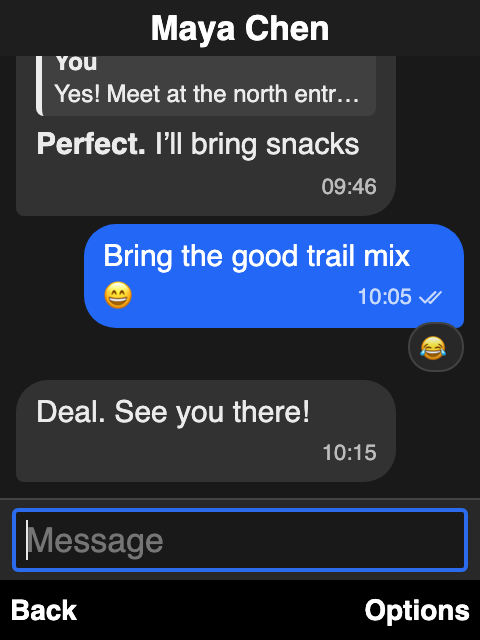
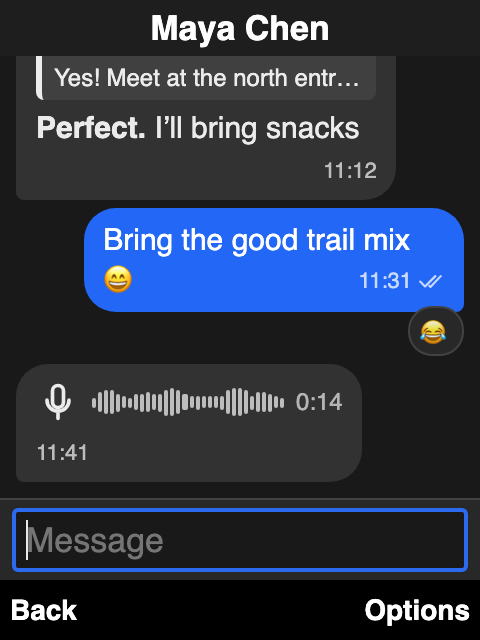
Refresh the README screenshots

Changed region(s): [[0.0312, 0.0625, 0.9688, 0.5938], [0.0312, 0.5625, 0.75, 0.7188], [0.6562, 0.5938, 0.8438, 0.75]]

diff --git a/README.md b/README.md
@@ -13,13 +13,13 @@
 <table>
   <tr>
     <td align="center"><img src="docs/images/welcome.png" alt="Welcome screen with the Beacon icon and a Start softkey" width="200"><br><sub><b>Link in a minute</b></sub></td>
-    <td align="center"><img src="docs/images/chats.png" alt="Chat list with a pinned chat, unread counts, a muted chat, and a typing indicator" width="200"><br><sub><b>All your chats</b></sub></td>
-    <td align="center"><img src="docs/images/chat-dark.png" alt="A conversation in dark mode with a reply, bold text, reactions, and read ticks" width="200"><br><sub><b>Replies, reactions, formatting</b></sub></td>
+    <td align="center"><img src="docs/images/chats.png" alt="Chat list in the All chats folder with a pinned chat, a group, unread counts, a typing indicator, and a muted chat" width="200"><br><sub><b>Chats, groups, and folders</b></sub></td>
+    <td align="center"><img src="docs/images/chat-dark.png" alt="A conversation in dark mode with a reply, bold text, a reaction, read ticks, and a voice message" width="200"><br><sub><b>Replies, reactions, voice messages</b></sub></td>
   </tr>
   <tr>
-    <td align="center"><img src="docs/images/message-options.png" alt="Message options menu with React, Reply, Copy text, and Pin message" width="200"><br><sub><b>Everything one key away</b></sub></td>
-    <td align="center"><img src="docs/images/chat-settings.png" alt="Chat settings with the contact's avatar, nickname, and disappearing messages" width="200"><br><sub><b>Per-chat settings</b></sub></td>
-    <td align="center"><img src="docs/images/settings.png" alt="Settings with the profile, linked device, chats, and privacy" width="200"><br><sub><b>Light and dark themes</b></sub></td>
+    <td align="center"><img src="docs/images/group-poll.png" alt="A group chat with a poll showing vote counts and the option you picked" width="200"><br><sub><b>Polls in groups</b></sub></td>
+    <td align="center"><img src="docs/images/call.png" alt="A voice call in progress with Speaker, Mute, and End softkeys" width="200"><br><sub><b>One-to-one voice calls</b></sub></td>
+    <td align="center"><img src="docs/images/about.png" alt="About Beacon with the version, Check for updates, and automatic update checks turned on" width="200"><br><sub><b>Updates built in</b></sub></td>
   </tr>
 </table>
 
